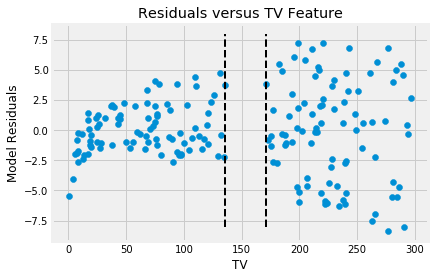
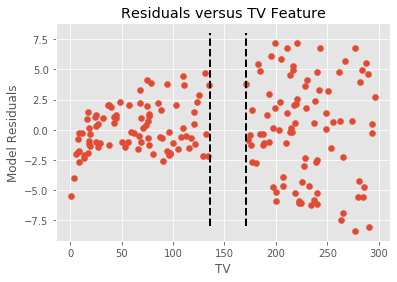
update learning objectives, grammar check

diff --git a/README.md b/README.md
@@ -3,16 +3,14 @@
 
 ## Introduction
 
-So far, you have looked mainly at R-Squared values along with some visualization techniques to confirm if the data and residuals fit the regression assumptions. Now, you'll look at some statistical procedures to further understand your model and results. You'll be looking at the results obtained in the regression analysis outcomes for the advertising dataset in the previous lab. 
+So far, you have looked mainly at R-Squared values along with some visualization techniques to confirm that regression assumptions are met. Now, you'll look at some statistical procedures to further understand your model and results. You'll be looking at the results obtained in the regression analysis outcomes for the advertising dataset in the previous lab. 
 
 *Note: Some of the terms in this lesson highlighting underlying statistical testing concepts will be new to you. These terms will be covered in detail in later sections. Here, the focus will be on running and interpreting the results of these tests in a regression context.*
 
 ## Objectives
 
 You will be able to:
-* Use Q-Q plots to check for the normality in residual errors
-* Use the Jarque-Bera test for normal distribution of residuals
-* Check for heteroscedasticity using the Goldfeld-Quandt test to check whether the variance is the same in 2 samples
+* Determine if a particular set of data exhibits the assumptions of linear regression
 
 ## Let's get started
 
@@ -30,17 +28,18 @@ Here we'll revisit some of the methods you've already seen, along with some new 
 ## Normality Check (Q-Q plots) 
 You've already seen Q-Q Plots as a measure to check for normality (or, by extension, any other distribution). 
 
-Q-Q plots are also referred to as normal density plots when used with standard normal quantiles. These plots are a good way to inspect the distribution of model errors. You saw this earlier with the small height-weight data set. Let's quickly plot a Q-Q for the residuals in the `sales ~ TV` and the `sales ~ radio` models again!
+Q-Q plots are also referred to as normal density plots when used with standard normal quantiles. These plots are a good way to inspect the distribution of model errors. You saw this earlier with the small height-weight data set. Let's quickly generate a Q-Q plot for the residuals in the `sales ~ TV` and the `sales ~ radio` models again!
 
 
 ```python
 import pandas as pd
 import matplotlib.pyplot as plt
+%matplotlib inline
 import statsmodels.api as sm
 import statsmodels.stats.api as sms
 import statsmodels.formula.api as smf
 import scipy.stats as stats
-plt.style.use('fivethirtyeight')
+plt.style.use('ggplot')
 
 data = pd.read_csv('advertising.csv', index_col=0)
 f = 'sales~TV'
@@ -52,11 +51,14 @@ resid1 = model.resid
 resid2 = model2.resid
 fig = sm.graphics.qqplot(resid1, dist=stats.norm, line='45', fit=True)
 fig = sm.graphics.qqplot(resid2, dist=stats.norm, line='45', fit=True)
-fig.show()
 ```
 
-    /Users/matthew.mitchell/anaconda3/lib/python3.6/site-packages/matplotlib/figure.py:459: UserWarning: matplotlib is currently using a non-GUI backend, so cannot show the figure
-      "matplotlib is currently using a non-GUI backend, "
+
+![png](index_files/index_2_0.png)
+
+
+
+![png](index_files/index_2_1.png)
 
 
 Normal Q-Q Plots are a direct visual assessment of how well our residuals match what we would expect from a normal distribution. 
